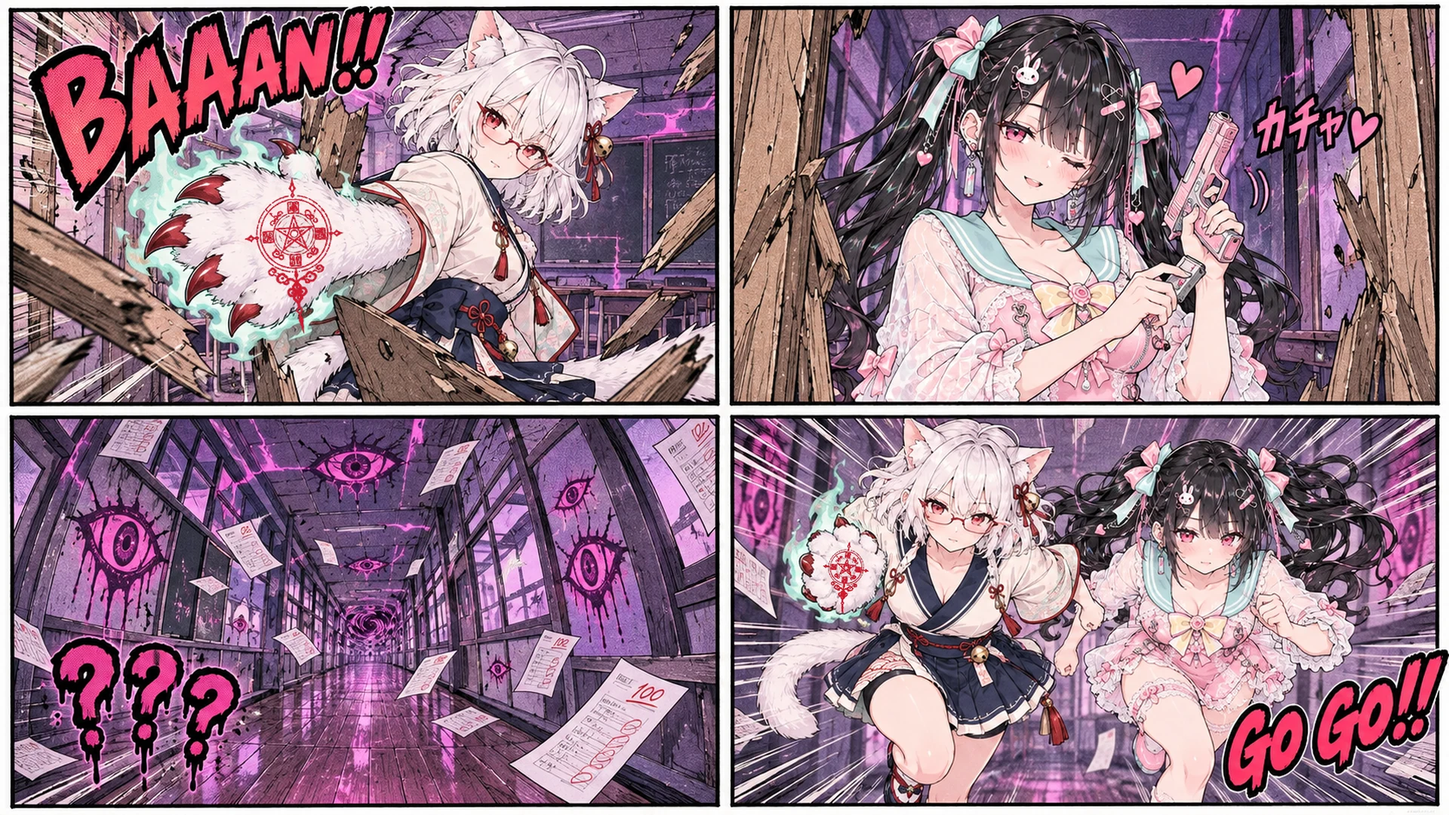
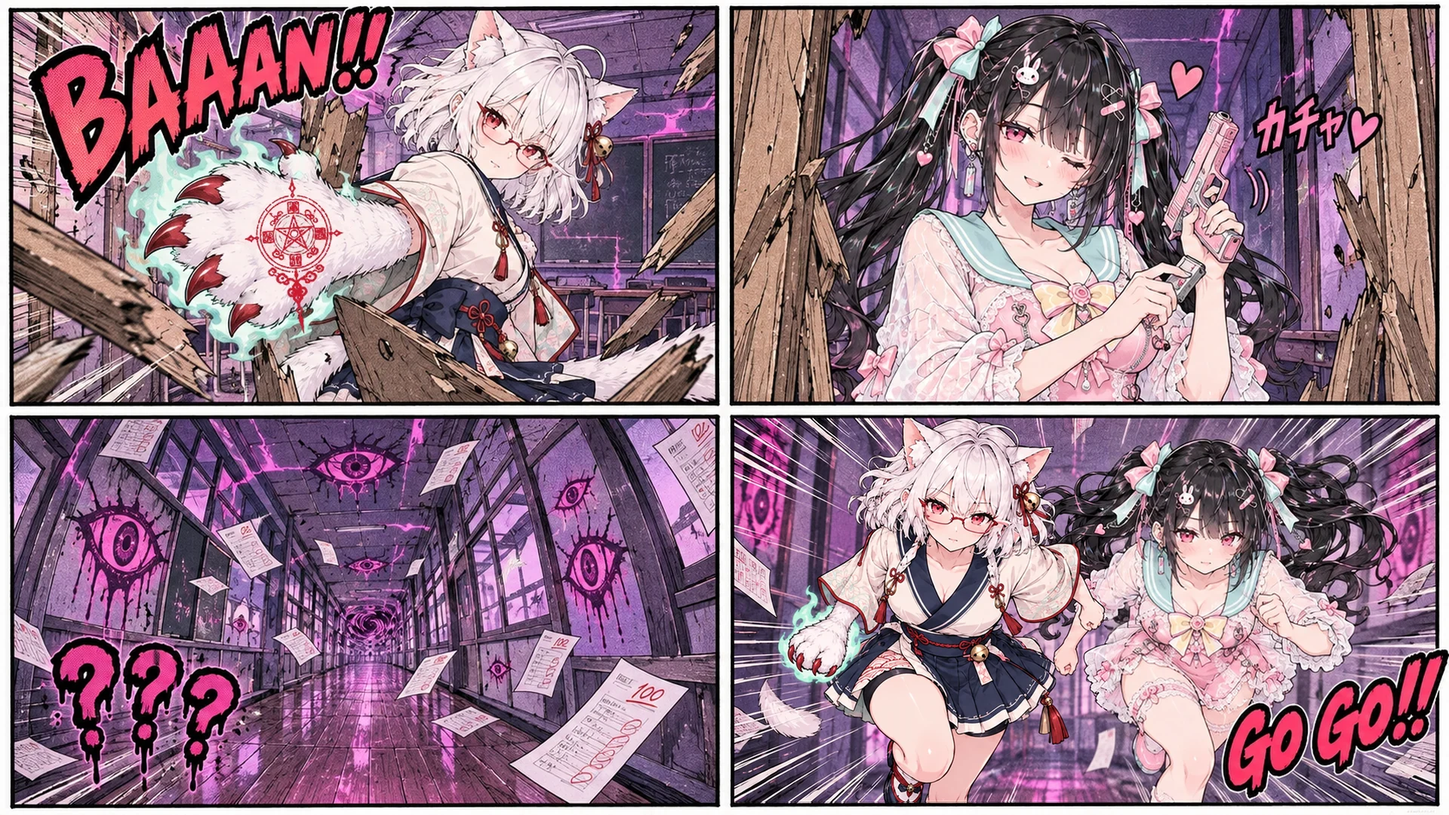
序章和 Boss 六条第 1、2 条：序章第 1 关后那页最后一格猫娘的猫爪手臂改成垂下往后摆、爪子在胯边（R93 f）；怪和 Boss 开始蓄力时放新的蓄力提醒音（Stable Audio 出 12 挑 4），走新的「提醒」组，响的 1.4 秒里音乐、语音和其余声音临时往后退

Changed region(s): [[0.5, 0.519, 0.7812, 1.0]]

diff --git a/src/core/audio.js b/src/core/audio.js
@@ -1,7 +1,7 @@
 // Everything is synthesized with WebAudio: weapons, paper, monsters, UI and two music loops; a sound with recorded files in content
 // audio/sounds.json plays those instead (at the end of this file).
 import { C } from './content.js';
-let ctx = null, master, sfxBus, fxBus, musBus, musDuck, voiceBus, verb, verbIn, wetSfx, wetVoice, noiseBuf, radio, crackleBuf;
+let ctx = null, master, sfxBus, fxBus, musBus, musDuck, voiceBus, voiceDuck, verb, verbIn, wetSfx, wetVoice, noiseBuf, radio, crackleBuf;
 let muted = false;
 let volume = 0.7;
 let musicVol = 0.7, sfxVol = 0.7, voiceVol = 0.7; // the player's sliders (0..1): 0.7 is the mix as designed (docs/TECH.md「混音」)
@@ -17,9 +17,11 @@ export const sliderGain = (v) => (v <= 0.001 ? 0 : Math.pow(10, (v >= 0.7 ? (v -
 // about as loud as the fight (both near -21 dB RMS; it steps back a little while they talk or the fight is busy), the whole mix low
 // enough that every slider can still go 6 dB up before the limiter has to hold it (at 0.62 a slider at 100% only gained 0.9 dB)
 const NOM = { master: 0.45, music: 0.6, sfx: 0.8, voice: 1.0 };
-const GROUPS = ['ui', 'player', 'hit', 'enemy', 'world', 'amb'], GRP = {};
+// alert: a monster gathering itself for an attack (sounds.json bus "alert": windupWarn) - never ducked itself, and while it sounds the
+// music, the voices and every other group step back (DUCK_ALERT; user 2026-10-23: a warning should cover the BGM and the lines for a moment)
+const GROUPS = ['ui', 'player', 'hit', 'enemy', 'world', 'amb', 'alert'], GRP = {};
 // each group's own level on top of the mix (the sound sandbox's mixer, src/ui/sandbox.js; 1 = as designed): music, voice and the groups
-const GRPU = { music: 1, voice: 1, ui: 1, player: 1, hit: 1, enemy: 1, world: 1, amb: 1 };
+const GRPU = { music: 1, voice: 1, ui: 1, player: 1, hit: 1, enemy: 1, world: 1, amb: 1, alert: 1 };
 export const groupGain = (g) => GRPU[g] ?? 1;
 export function setGroupGain(g, v) { GRPU[g] = v; if (g === 'voice') setVoiceVolume(voiceVol); }
 let curGroup = null;   // (which group a synthesized effect plays in: set by its wrapper below)
@@ -40,7 +42,8 @@ export function initAudio() {
   sfxBus = ctx.createGain(); sfxBus.gain.value = NOM.sfx * sliderGain(sfxVol); sfxBus.connect(master);
   for (const k of GROUPS) { GRP[k] = ctx.createGain(); GRP[k].connect(sfxBus); }
   fxBus = GRP.world;   // (the default for everything that names no group)
-  voiceBus = ctx.createGain(); voiceBus.gain.value = NOM.voice * sliderGain(voiceVol); voiceBus.connect(master);
+  voiceBus = ctx.createGain(); voiceBus.gain.value = NOM.voice * sliderGain(voiceVol);
+  voiceDuck = ctx.createGain(); voiceBus.connect(voiceDuck); voiceDuck.connect(master);   // (an alert steps the voices back: mixTick)
   musBus = ctx.createGain(); musBus.gain.value = NOM.music * sliderGain(musicVol);
   musDuck = ctx.createGain();
   // the music's own treatment (user 2026-10-20: the loud tracks bury the sounds - "the loud ones need a bus of their own"): a dip where
@@ -346,7 +349,10 @@ export function hitNote(who, crit = false, kill = false, pan = 0, rate = 1) {
 const DUCK_V = { music: -5, amb: -8, world: -4, enemy: -4, hit: -3, player: -3, ui: 0 }, BUSY = { amb: -9, music: -2.5 };
 // a boss talking: everything steps right back for her line (user 2026-10-20: "unless a boss's line covers them for a moment")
 const DUCK_BOSS = { music: -9, amb: -12, world: -9, enemy: -9, hit: -8, player: -8, ui: -3 };
-const VERB = { ui: 0, player: 0.05, hit: 0.08, enemy: 0.15, world: 0.2, amb: 0 };   // (how much of each group goes into the place's reverb)
+// an alert sounding (ALERT.until): everything else back, the voices too, for as long as it lasts
+const DUCK_ALERT = { music: -10, voice: -9, amb: -12, world: -8, enemy: -8, hit: -6, player: -6, ui: -3, alert: 0 };
+const ALERT = { until: 0 };
+const VERB = { ui: 0, player: 0.05, hit: 0.08, enemy: 0.15, world: 0.2, amb: 0, alert: 0.05 };   // (how much of each group goes into the place's reverb)
 let act = 0;
 const LOUD = { hit: 0.05, enemy: 0.12, world: 0.06, player: 0.015 }, BIG = /^(slam|roar|shatter|beamFall|woodBreak|bellToll|doorSlam|kaikoWail|sheKnock)/;
 function busy(grp, key = '') { act = Math.min(1, act + (BIG.test(key) ? 0.35 : LOUD[grp] || 0)); }
@@ -357,12 +363,14 @@ function mixTick() {
   if (!ctx) return;
   const t = now(), talk = talking(), k = act, D = talk && !C.characters?.[TALK.who] ? DUCK_BOSS : DUCK_V;   // (not a heroine: a boss)
   act *= 0.94;   // (about a second to fall away)
+  const al = t < ALERT.until;
   for (const g of GROUPS) {
-    const target = db((talk ? D[g] : 0) + (BUSY[g] || 0) * k) * GRPU[g];
+    const target = g === 'alert' ? GRPU.alert : db(Math.min((talk ? D[g] : 0) + (BUSY[g] || 0) * k, al ? DUCK_ALERT[g] : 0)) * GRPU[g];
     GRP[g].gain.setTargetAtTime(target, t, target < GRP[g].gain.value ? 0.03 : 0.3);
   }
-  const m = db((talk ? D.music : 0) + BUSY.music * k) * GRPU.music;
+  const m = db(Math.min((talk ? D.music : 0) + BUSY.music * k, al ? DUCK_ALERT.music : 0)) * GRPU.music;
   musDuck.gain.setTargetAtTime(m, t, m < musDuck.gain.value ? 0.06 : 0.6);
+  voiceDuck?.gain.setTargetAtTime(al ? db(DUCK_ALERT.voice) : 1, t, al ? 0.04 : 0.4);
 }
 // where the camera is (Game every frame): the sounds given a point are heard from here
 const LISTEN = { on: false };
@@ -479,6 +487,7 @@ export function sound(key, opt = {}) {
   const e = C.sounds?.sfx?.[key]; if (!ctx || muted || !e?.files?.length) return false;
   if (e.gap) { if (now() - (LAST.get(key) ?? -9) < e.gap) return true; LAST.set(key, now()); }
   const grp = groupOf(key); busy(grp, key);
+  if (grp === 'alert') ALERT.until = Math.max(ALERT.until, now() + (e.duck ?? 1.4));   // (the rest step back while it sounds)
   return playOne(e.files, { pan: opt.pan || 0, pos: opt.pos || null, vol: (e.vol ?? 1) * (opt.vol ?? 1), rate: (e.rate || 1) * (opt.rate ?? (0.94 + Math.random() * 0.12)), len: e.len || 0, bus: GRP[grp], verbAmt: VERB[grp] });
 }
 // a looping bed (sounds.json sfx entries with loop: true: the clocks ticking, the rain, the fire): on / off with a fade; vol can change

diff --git a/src/battle/boss.js b/src/battle/boss.js
@@ -5,7 +5,7 @@
 import * as THREE from 'three';
 import { meta } from '../core/assets.js';
 import { Ease } from '../core/tween.js';
-import { sfx } from '../core/audio.js';
+import { sfx, sound } from '../core/audio.js';
 import { Actor } from './enemies.js';
 import { COL } from './fx.js';
 import { TheThing } from './thing.js';
@@ -188,7 +188,7 @@ export class MascotFloat extends BossBase {
     this.stompDur = this.ph(S.windup);
     this.stompT = 0;
     this.stompLock = this.lock = g.fx.lock('heavy', -1, { mark: 'bossHide' });   // (a boss's own 3D warning: marks3d.js)
-    sfx.warn(); setTimeout(() => sfx.warn(), 300);
+    sound('windupWarn', { rate: 0.9 }) || (sfx.warn(), setTimeout(() => sfx.warn(), 300));   // (over everything for a moment: audio.js alert)
     g.warnSlam();
     g.etw.to(P, { y: S.height }, this.stompDur * 0.85, { ease: Ease.outCubic });
     this.later(this.stompDur, () => {

diff --git a/src/battle/enemies.js b/src/battle/enemies.js
@@ -675,7 +675,8 @@ export class Enemy extends Actor {
     this.lock = this.mark ? this.game.fx.lock(this.mark, this.targetSlot) : null;
     if (this.beh !== 'walker' || this.mark) this.game.fx.charge(this, this.blasting ? 0xff4fc8 : this.mark === 'kill' ? 0xff3a5a : 0xffb04a);   // the glow it gathers, the air drawn in (art has no effects drawn in)
     this.glinted = false; this.froze = false;
-    sfx.warn();
+    // (its warning, over everything for a moment - lower for one to hide from: user 2026-10-23, no sound told that it was coming)
+    sound('windupWarn', { pos: this.center(), rate: this.mark === 'hide' || this.blasting ? 0.82 : 1 }) || sfx.warn();
   }
   endWindup() {
     if (this.lock) { this.lock.remove(); this.lock = null; }

diff --git a/tools/rounds/job_specs93.py b/tools/rounds/job_specs93.py
@@ -26,9 +26,12 @@ FIX = {
                "her chin in delight at the same place"),
     # (user 2026-10-22: on the glass page's last panel the paw is far bigger than the cat girl - redrawn its right size: GLASS below)
     "glass_2": ("glass", 2, (0.01, 0.0, 0.6, 1.0), None, None),
+    # (user 2026-10-23: the prologue's page after its first stage, last panel - the cat girl running, her paw arm bent up oddly at her
+    # shoulder, nothing a body does: MID below)
+    "mid_3": ("mid", 3, (0.0, 0.0, 0.56, 1.0), None, None),
 }
 GROW = {"glass_2"}   # (a panel too narrow for the tool's shapes: the crop may reach past it on the page - only her box is pasted back)
-EP = {"fountain": "ep1", "fall": "ep1", "open": "ep2", "glass": "ep1"}   # (which episode's pack each page is in: comic/<ep>p_<page>, comics.json <ep>_<page>)
+EP = {"fountain": "ep1", "fall": "ep1", "open": "ep2", "glass": "ep1", "mid": "ep0"}   # (which episode's pack each page is in: comic/<ep>p_<page>, comics.json <ep>_<page>)
 SHAPES = (2 / 3, 1.0, 3 / 2)   # w / h the image tool makes
 
 
@@ -130,3 +133,30 @@ GLASS = ("Edit reference image 1, a panel from a full-colour manga page of a gam
          "add text, do not add effects.")
 JOBS["R93_glass_2"] = [(f"art/raw/r93/glass_2_{v}.png", [src("glass_2"), "art/ref/cat_sheet.png", "art/ref/pink_sheet.png", "art/ref/pink_poses.png"],
                         GLASS + f" Try {v}.", "OPAQUE") for v in "abc"]
+
+MID = ("Edit reference image 1, a panel from a full-colour manga page of a game. Output the SAME picture at the same framing: keep "
+       "everything exactly as it is (the camera, the composition, the haunted school corridor behind, the speed lines, the colours, the line "
+       "art and screentone style, the lettering) and keep the white-haired cat girl's running pose, legs, position, size, face, hair, glasses, "
+       "clothes and tail exactly as they are (reference image 2 is her design sheet). The black-haired twin-tail girl, where she is in the "
+       "picture, stays exactly as she is (reference images 3 and 4 are her design; " + OUTFIT + "). Change ONLY her right arm (on the viewer's "
+       "LEFT), the one that ends in her big white fluffy ghost-cat paw with red claws: it is now bent up oddly behind her shoulder - redraw it "
+       "the way a running girl's arm really moves: from her shoulder, the arm swinging back and down beside her body, the elbow bent, the "
+       "paw at the height of her hip, curled loosely like a fist, the back of the paw toward the viewer, a faint pale-green ghostly glow "
+       "around it; the wide sleeve following the arm; the paw about the size of her head, no bigger. Her other hand stays an ordinary hand. "
+       "Do not add text, do not add effects.")
+JOBS["R93_mid_3"] = [(f"art/raw/r93/mid_3_{v}.png", [src("mid_3"), "art/ref/cat_sheet.png", "art/ref/pink_sheet.png", "art/ref/pink_poses.png"],
+                      MID + f" Try {v}.", "OPAQUE") for v in "abc"]
+
+# (the first three tries kept the raised paw and turned her other hand into a second paw: asked again, saying what goes where outright)
+MID2 = ("Edit reference image 1, a panel from a full-colour manga page of a game. Output the SAME picture at the same framing, everything "
+        "kept exactly as it is (the corridor, the speed lines, the colours, the line art, the lettering, the black-haired girl on the right, "
+        "the white-haired cat girl's face, hair, glasses, clothes, running legs and tail - reference image 2 is her design sheet), with "
+        "exactly TWO changes, both on the cat girl: (1) the big white furry cat paw held up beside her head on the LEFT side of the picture, "
+        "with its green ghostly flame and the red seal, is REMOVED: paint the corridor wall and the speed lines there instead; (2) her right "
+        "arm (on the LEFT side of the picture) now hangs down along her body swinging back as she runs, the wide white sleeve following it, "
+        "and ENDS IN the same big white furry ghost-cat paw with red claws, now at the height of her hip on the left side, curled like a "
+        "loose fist, a faint pale-green ghostly glow round it, about the size of her head. Her other hand, on the RIGHT side of her body near "
+        "the black-haired girl, stays exactly as it is: an ordinary girl's hand, not a paw. In the whole picture she has exactly ONE paw. "
+        "Do not add text, do not add effects.")
+JOBS["R93_mid_3b"] = [(f"art/raw/r93/mid_3_{v}.png", [src("mid_3"), "art/ref/cat_sheet.png", "art/ref/pink_sheet.png", "art/ref/pink_poses.png"],
+                       MID2 + f" Try {v}.", "OPAQUE") for v in "def"]

diff --git a/tools/rounds/sfx_specs99.py b/tools/rounds/sfx_specs99.py
@@ -1,0 +1,10 @@
+# Round 99 of the sound effects (user 2026-10-23: "目前所有敌人蓄力攻击时，没啥特别音效吧。这种提醒音效bus应该临时盖过其他BGM、语音啥的几秒"):
+# a monster or a boss gathering itself for an attack - one sound for every wind-up, made with Stable Audio 3 Small-SFX (tools/sfx_sa3.py),
+# picked by tools/sfx_pick.py; it plays on the "alert" group, which ducks the music, the voices and the rest while it sounds (src/core/
+# audio.js alert). A must-hide attack plays it lower (rate).
+# SFX[key] = dict(prompt, dur (s), n (variants generated), kind, keep, when, want) - as tools/rounds/sfx_specs62.py
+SFX = {
+    "windupWarn": dict(kind="long", dur=2.0, n=12, keep=4, bus="alert", when="怪 / Boss 开始蓄力攻击（要打断的、要躲的）", want="一听就知道「它在蓄力、要来了」：上升的充能尖啸，最后一声清脆的警示叮",
+                       prompt="an anime energy charge-up warning sound: a shimmering electric whine rising fast in pitch for one second, "
+                              "ending in a single bright sharp warning ping, clean, punchy, close mic, no music"),
+}

diff --git a/tools/rounds/r93_import.py b/tools/rounds/r93_import.py
@@ -12,10 +12,12 @@ import packs  # noqa: E402
 from job_specs93 import FIX, EP, RAW, boxes, panel_box, orig  # noqa: E402
 from r53_import import put  # noqa: E402
 
-PICK = {"fountain_3": "b", "fall_2": "c", "open_0": "d", "glass_2": "b"}
+PICK = {"fountain_3": "b", "fall_2": "c", "open_0": "d", "glass_2": "b", "mid_3": "f"}
 # (fountain b: the sleeve keeps its mint lining; fall a drew a second gun girl behind her; open: a-c kept the two-paw lump under the girl's
 # hand - three hands (user 2026-10-22) - so d-f asked for exactly two: d; e drew her as the gun girl, f changed the whole panel)
 # (glass: the paw far bigger than she is, user 2026-10-22 - b: about her head's size, its palm and pad toward the viewer; a lost the paw)
+# (mid, the prologue: the paw arm bent up at her shoulder, user 2026-10-23 - a-c kept it and made her other hand a paw too; asked again, f:
+# the arm swinging down as she runs, the paw at her hip; d, e were not made)
 FEATHER = 0.05   # of her box's smaller side
 
 

diff --git a/docs/ART.md b/docs/ART.md
@@ -133,7 +133,7 @@
   - R39：NIKKE 式 HUD 效果图、Q 版装填大头、街机字（RELOAD! 等）、裂屏、R39 艺术字；R40：HUD 拆解；R41：猫娘设计字三套（seal / catbrush / sigil，`fx/gl2_*`）、序章四页整页漫画（`tools/comic_panels.py` 自动切格）；
   - R36：装填特写、气泡贴纸、序章漫画候选、Boss 按镜头的部位；R37：符箓毛笔字（`fx/fu_*`），重出被拒的漫画格；
   - R35：HUD 拆解图层、图标、符咒弹药（3 套）、装填图（每人 3 张）、Q 版表情（每人 24 个）、准星（每人 3 套 × 8 态）、射击 / 命中特效原画（`tools/rounds/r35_import.py`）。
-  - R93：猫娘两只手都画成爪的漫画格（`job_specs93.py`，导入 `r93_import.py`，做法同 R60：只裁她那块交给 Codex 把一只改回人手、只贴回她那块，总从这轮之前的原页开始 `art/raw/r93/orig_*`）：第 1 话喷泉第 4 格（用 b）、掉进坑道第 3 格（用 c，留下的爪上 Codex 重画的咒印由 `seal_fix page93_fall_1` 换成标准的）、第 2 话开头第 1 格（用 d：a～c 下巴下那团毛还是两只爪的轮廓，加上人手成了三只手，d～f 直接要求画面里正好两只手；e 把她画成了地雷妹、f 整格变了）。挑图时要数手。扫玻璃那页最后一格（用 b）：爪子画得比她整个上身还大，重画成头的一倍半左右、掌心朝外（这一格太窄，裁的时候往页面左边多带一点，只贴回她那块：`GROW`）。
+  - R93：猫娘两只手都画成爪的漫画格（`job_specs93.py`，导入 `r93_import.py`，做法同 R60：只裁她那块交给 Codex 把一只改回人手、只贴回她那块，总从这轮之前的原页开始 `art/raw/r93/orig_*`）：第 1 话喷泉第 4 格（用 b）、掉进坑道第 3 格（用 c，留下的爪上 Codex 重画的咒印由 `seal_fix page93_fall_1` 换成标准的）、第 2 话开头第 1 格（用 d：a～c 下巴下那团毛还是两只爪的轮廓，加上人手成了三只手，d～f 直接要求画面里正好两只手；e 把她画成了地雷妹、f 整格变了）。挑图时要数手。序章第 1 关后那页（ep0_mid）最后一格（用 f，2026-10-23 用户：猫爪那只手臂不符合工学）：跑步时猫爪那只手折在肩后举着 → 手臂垂下往后摆、爪子在胯边；第一批三张都留着举起的爪、另一只手也变成爪，第二批直接写「去掉头边那只、右臂垂下来末端是爪、另一只手保持人手、全图只有一只爪」，d、e 没出来，用 f（尾巴被画短了一截）。扫玻璃那页最后一格（用 b）：爪子画得比她整个上身还大，重画成头的一倍半左右、掌心朝外（这一格太窄，裁的时候往页面左边多带一点，只贴回她那块：`GROW`）。
   - R92：第 1 话的开头和结尾两页漫画重出（`job_specs92.py`，导入 `r92_import.py`）：开头去掉门玻璃里的夫人，改成店深处有动静；结尾去掉哭和黑格，改成长舒一口气走人、远处又有动静、回头杀。带两人设定图和地雷妹的衣服描述；开头用 c（第 3 格爪子贴在玻璃上、掌心朝外，画出来的咒印 `seal_fix page92_intro_3` 只抹不贴；a 那格咒印在爪子侧面贴着背景，抹不干净），结尾用 a（`page92_end_1`）。`seal_fix.py` 新加 `stamp: false`：只抹掉画出来的咒印、不贴（侧面看不到手背的爪子）。
   - R97：护送（`job_specs97.py`，导入 `r97_import.py`）：孩子侧面往右走的六格（走路四格、回头、挨打缩一下，用 a → `ep1/soul_walk_*`）；一扇白漆旧门（圆窗、黄铜把手、纸花串）立在冥界田野里：单独的门（b → `ep1/soul_door`），同一扇门的开门特写画框（孩子站在门左边望着它，开口纯黑，b → `ep1/door10_frame`），再照画框的开口出门扇（a → `ep1/door10_leaf`）。
   - R98：夫人的结局（`job_specs98.py`，导入 `r98_import.py`）：安息五张分镜画（16:9 不透明，参考画室、她生前的画像 portrait1、最后形态、孩子，各两版都用 b → `comic/ep1s_rest1..5`）；三个迷途孩子的鬼魂，上一排天使、下一排同一个孩子的恶魔（a，每个孩子的两张放在同一画布上 → `ep1/ghost<n>_angel|demon`）。

diff --git a/docs/PLAN.md b/docs/PLAN.md
@@ -284,6 +284,13 @@
   - [x] 15. 夫人没血后不要一圈重复漂浮、穿模的东西让玩家点：回忆杀直接放剧情。→ 不再出三样东西；她跪着（一张图不抖），回忆自动放三段、各说一句，接安息过场。
   - [x] 16. 夫人到底几个孩子：一个的话，夫人之影「座位又空了」那句不对。→ 一个女儿；那句改成「陪那孩子喝茶的小客人……又少了一个……」（少的是骗来的孩子），重新配音。
   - [x] 17. 夫人升天专门的动画和过场（不用现有的房间 + 一束光）：她拿到一样东西变得更像人、母女团圆、化成粒子散开，Codex 出关键帧序列。→ R98 五张分镜画（抱着全家福腐壳剥落 → 露出本来的脸 → 孩子跑向张开双臂的她 → 相拥、孩子的脸朝着我们、她最后一句 → 化成光点和花瓣散开），一张溶进下一张、最后一张满屏光点花瓣升起。
+- [ ] **序章和 Boss 六条**（2026-10-23 用户），一条一条做、每条验证后提交：
+  - [x] 1. 序章第 1 关后的漫画（ep0_mid）最后一格：猫娘跑步时猫爪那只手臂折在肩后，不符合人体结构 → R93 只重画她的手臂。→ 手臂垂下往后摆、爪子在胯边，另一只手是人手。
+  - [x] 2. 敌人蓄力攻击要有专门的提醒音效，响的那几秒临时压过 BGM、语音等。→ 新的蓄力提醒音（上升的充能声 + 一声叮，要躲的大招低一点），走新的「提醒」组：它响的 1.4 秒里音乐 -10 dB、语音 -9 dB、其余也往后退。
+  - [ ] 3. 序章第 2 关走廊折叠离得太近、很多怪穿模，折叠后的追逐看不出走廊已经变形；第 3 关追逐很多怪出在拐角或太近，来不及反应。
+  - [ ] 4. 序章 BGM 里有「当、当」像警报的声音，实际没有警报，让人困惑。
+  - [ ] 5. 追逐 Boss：至少在过场里表现她挨了几下、集中挨打却不掉血，两人再跑。
+  - [ ] 6. Boss 弱点提示：程序画的红色高亮圈旁边放一个箭头（比用户画的略大，Codex 出图，不用 SVG），来回戳向圈又退开，按弱点位置挪开、不挡 Boss；弱点至少露 5 秒左右、够打一梭子，不要高速移动、只露 1.2 秒。
 - [ ] **有叙事分量的特写改成分镜**（2026-10-21 用户看了截图：怕特写就是全塞一起；DESIGN「分镜」）：样例做了（第 2 话雨中渡廊最后一点开场「她蹚着水过来了」：空池子 → 木屐踩水 → 她的脸 → 同机位她已在池中，R82 两格插画），等用户看过再铺开：挑出其余有叙事分量的（第 1 话门变嘴、巨影钻出来；第 2 话她第一次出现、蚕醒来、被锁在土藏、丑三时的大钟…），每个写分镜、出这一刻自己的插画。
 - [ ] **研究目录逐件落地**（用户 2026-10-20：研究半天结论只是物理引擎？）：ART「用户给的参考里的手法」里的东西一件件做进游戏，不做一件就停：战斗中的镜头调度（侧倾、Boss 仰拍 + 绕半圈 + 推拉变焦；2026-10-21 做了）→ 体积光武器和死亡演出（火焰锥、分段光柱、激光墙；冲击波环、裂纹、漩涡；2026-10-21 做了光柱、火焰锥、裂纹）→ 异变整段换画风（线稿 / 双色调 / 故障 / 线框 / 像素化 + 隧道 + 拍点硬切）→ 字就是画面（遮幅黑边大字、重复铺满的音节、标签条、坏点阵字）→ 画面边缘的来袭警告、前景粒子 → 巨大的非人形 3D Boss。
 - [ ] **物理（用户 2026-10-20：同意掩体和女主动作都做，先做物理；「你现在搁我这又 mvp 偷懒了？」→ 整个游戏都要物理，不是做一个桌子的演示）**：方案第 3 件，做法在 TECH「物理」（Rapier，用户同意下载）。

diff --git a/docs/TECH.md b/docs/TECH.md
@@ -45,6 +45,7 @@
   - 总线：`master`（总音量）→ 限幅器（-6 dB 起压，只抓峰值）→ 输出；`music`（BGM 推子）← `musDuck`；`sfx`（音效推子）← `ui` / `player`（她的枪、武器音节）/ `hit`（命中）/ `enemy`（怪叫）/ `world`（场景：门、机关、她的脚步；合成音效默认在这）/ `amb`（环境循环：钟、雨、火）；`voice`（语音推子）：两人的台词；混响按场景（set 的 `reverb`，`setRoom`），各组送进去的量不同，送的量跟着推子走。
   - 推子（`sliderGain`）：0.7 = 设计好的混音（0 dB），1 = +6 dB，往下每 0.1 小 4 dB，0 = 关；默认全是 70%。各总线在 70% 时的量 `NOM`：离屏实测（第 1 话的一场战斗）没有音乐的战斗约 -23.5 dB RMS、只有音乐约 -22 dB，一起约 -20.4 dB，全部推到 100% 还能大约 4 dB（限幅器只压峰值）。以前音乐比战斗小 9～10 dB，听着像没有。
   - 每 50 ms 动态平衡（`mixTick`）：有人说话时音乐 -5 dB、环境 -8、场景和怪 -4、命中和她的枪 -3（界面不动）；打得越热闹（刚响过的命中、怪叫、大的碰撞撞高一个窗口，约一秒落下）环境最多 -9 dB、音乐最多 -2.5 dB，安静下来再回来；压得快、回得慢。
+  - 提醒（`alert` 组，2026-10-23 用户：蓄力攻击没有特别的音效，这种提醒应该临时盖过 BGM、语音几秒）：怪和 Boss 开始蓄力时放 `windupWarn`（Stable Audio 出的上升充能声 + 一声叮，`tools/rounds/sfx_specs99.py`；要躲的大招放低一点 `rate` 0.82；`gap` 0.6 秒内不叠）；`alert` 组自己不被压，它响的 `duck`（1.4）秒里别的全部往后退（`DUCK_ALERT`：音乐 -10 dB、语音 -9（`voiceDuck`，接在语音总线后面）、环境 -12、场景和怪 -8、命中和她的枪 -6、界面 -3）。
   - Boss 说话（说话的不是主角）压得更狠（`DUCK_BOSS`：音乐 -9 dB、环境 -12、场景和怪 -9、命中和她的枪 -8、界面 -3）。音乐总线自己的处理（2026-10-20 用户：响的曲子把音效埋了，要专门的总线）：`musBus` → 150 Hz 低架 -3 dB（原来的曲子三分之二的能量在低频）→ 2.8 kHz 凹 3.5 dB（让出人声和打击音）→ 8 kHz 高架 -2 dB → 轻压缩（-18 dB 起、2.5:1）→ `musDuck`。每首按测得的响度定音量（`sounds.json music.<name>.lufs`，ffmpeg ebur128；`vol` = 10^((-12 - LUFS) / 20)，所有曲子一样响；`bgm_pick.py` 挑新曲时自动测）。序章 Boss 的声音是 `fx: "glitchGrow"`（`voice_aivis.py bend`：开头是原声，越往后读带越拖、音调越沉，环形调制、失真、降采样越来越多，结尾几个音节卡住重复；她不走收音机）。Boss 的台词走收音机（sounds.json `voices.<id>.radio`，`audio.js radio`：600 Hz 高通、1.5 kHz +8 dB、tanh 失真、2.6 kHz 低通，0.13 秒的回声（一次比一次暗）和一点房间混响——2026-10-22 用户：听着还是 TTS 原声，不像电台那种遥远的声音；`radioBed` 在她说话时垫一层带通的沙沙和噼啪，开头、结尾各一声开关的「咔」，被打断时一起停）。
   - 从哪来的声音就从哪听（`setListener`，Game 每帧把相机给它）：给了位置（`pos`）的声音用 HRTF 定位——左右、前后、远近（怪叫、机关、她的剪刀声：倒跑时她在背后就听着在背后）；没给位置的照旧左右声像。
   - 不再靠剪短来防止糊成一片：音效挑选时首尾都留得宽（`sfx_pick.py`：-50 dB 前 30 ms 到 -60 dB 后 120 / 250 ms），插话的台词 120 ms 淡出，怪叫最多 4 个同时、被顶掉的 250 ms 淡出，武器音节停时 30 ms 淡出。

diff --git a/docs/LOG.md b/docs/LOG.md
@@ -357,3 +357,6 @@
 - 第 16 条：她只有一个女儿；画室守丧之影的「又空了一个座位……」改成「陪那孩子喝茶的小客人……又少了一个……」，重新配了音（AivisSpeech）。
 - 第 17 条做了：安息不再是画室 + 光柱 + 背对着的孩子，改成五张分镜画的过场（R98）：抱着全家福、腐壳像糖霜一样剥落 → 露出画像里那张脸 → 变回人的她张开双臂、孩子跑过去 → 相拥，孩子的脸朝着我们，下面字幕是她最后一句（配音）→ 两人化成光点和花瓣往上散；画一张溶进下一张、慢慢推近，最后一张满屏光点花瓣升起；切回画室她跪的地方只剩一道光。开发服务器上从她没血看到过场结束、进结局，没有报错。
 - 第 12～17 条的完整验证里第 1 话卡在儿童房第一站第二波：两具瓷娃娃一直不醒。叫醒它们的是「这一波打掉 1 只」，被上一波留下的那只怪先触发了，那时这一波的瓷娃娃还没出来，叫了个空；之后场上只剩两具摆设，又不是最后一波，没有兜底。改了：任何一波只剩没醒的摆设、又没有等着叫醒的事件时当场叫醒；叫醒时摆设还没出来就过 0.5 秒再叫。
+- 用户（2026-10-23，附一张红圈加箭头的草图）：1 序章 1 关完成后漫画第 4 格猫爪奇怪、不符合工学；2 目前所有敌人蓄力攻击时没啥特别音效，这种提醒音效的总线应该临时盖过 BGM、语音几秒；3 序章 2 关走廊折叠太近、很多怪穿模，折叠后追逐没体现出走廊已经变形，3 关追逐很多怪出现在拐角或太近的地方，玩家没地方反应；4 序章 BGM 有个「当、当」的声音很突兀，像警报，实际没警报；5 追逐 Boss，至少过场动画体现出她挨打几下、被集中几下无伤，角色再跑；6 Boss 弱点提示：红色是程序弄的高亮区，旁边弄一个箭头（比草图略大）来回戳和远离那个圆，不要 SVG、Codex 出素材，箭头别挡 Boss、按弱点位置挪；弱点要暴露至少 5 秒左右让玩家能射一梭子，别高速移动、只暴露 1.2 秒。
+- 第 1 条做了：序章第 1 关后那页最后一格（GO GO!!）猫娘的猫爪手臂折在肩后举着。R93 只重画她那块：第一批三张都没改对（举着的爪留着、另一只手也变成了爪），第二批写明「去掉头边那只、右臂垂下来末端是爪、另一只手保持人手、全图只有一只爪」，用 f：手臂往后摆、爪子在胯边，贴回原页。
+- 第 2 条做了：怪蓄力时原来只有合成的两声「哔」（`sfx.warn`）。用 Stable Audio 出了 12 版「上升的充能尖啸 + 一声清脆的叮」挑 4 版（`windupWarn`），怪、序章 Boss、第 1 话 Boss 开始蓄力都放它，要躲的大招放低一点；新加「提醒」组，它响的 1.4 秒里音乐、语音（接了一个新的压低节点）、环境、场景、怪、命中都往后退，0.6 秒内不叠。开发服务器上试放了一次，没有报错（试的时候短暂开了一次声音、马上又静音了）。
